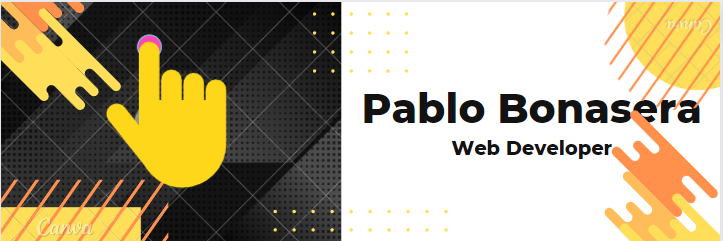
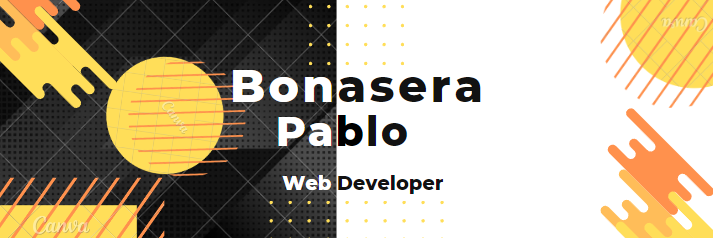
Improve

diff --git a/README.md b/README.md
@@ -1,12 +1,16 @@
-<img src="./img/banner.png" width="100%" alt="My Photo"> 
-<br>
+  <br />
+    <hr style="margin: 2rem 0;" />
+<img src="./img/banner2.png" width="100%" alt="My Photo">
+  <br />
+    <hr style="margin: 2rem 0;" />
 Hello! I'm Pablo Bonasera, a Full Stack Developer with a strong passion for learning and attention to detail. I'm anentrepreneur at heart, always seeking to generate improvements based on the circumstances. I would love to be part of yourteam!
 
 👯 I’m currently learning ...
 I have been working as a Mentor at Microverse, where I code daily with developers from around the world. This experience has helped me develop strong skills in communication and teamwork. In June 2021, I began my coding journey by taking courses and have since made significant progress through dedication, overcoming challenges, and continually striving for self-improvement. After completing my Full Stack certification at Academlo Bootcamp, I start in Microverse.
 
+<hr style="margin: 2rem 0;" />
 <div style="display: flex; align-items: flex-end;">
-  <h2 style="flex-grow: 1; margin: 2rem 0; color: #0366d6;">  🚀 **Technologies I Work With** </h2>
+  <h2 style="flex-grow: 1;   color: #0366d6;">  🚀 **Technologies I Work With** </h2>
 </div>
 
 - HTML/CSS
@@ -17,23 +21,29 @@ I have been working as a Mentor at Microverse, where I code daily with developer
 - MongoDB
 - Git
 - My Soft Skills
-
+<br />
+<hr />
 <div style="display: flex; align-items: flex-end;">
   <h2 style="flex-grow: 1; margin: 2rem 0; color: #0366d6;">  ⚡ **Detail-oriented** </h2>
 </div>
-
 - Strong problem-solving skills
 - Excellent communication
 - Team player
 - Adaptable and quick learner
 - Unique Selling Proposition (USP)
 - As a Full Stack Developer, I bring a unique blend of technical skills and professional experience. With a background as a legal assistant, I have developed a strong work ethic, perseverance, and an analytical mindset. These skills, combined with my passion for continuous learning, enable me to tackle complex coding challenges effectively and efficiently.
-
+<br />
+<hr />
 <div style="display: flex; align-items: flex-end;">
   <h2 style="flex-grow: 1; margin: 2rem 0; color: #0366d6;">  💻 **Let's Connect!** </h2>
 </div>
 I'm excited to collaborate on projects that make a positive impact on the environment and society. If you're looking for a dedicated and adaptable developer to join your team, I would be thrilled to be considered. Let's connect and create a better, more sustainable future together!
+  <br />
+    <hr style="margin: 2rem 0;" />
 
 [![Top Langs](https://github-readme-stats.vercel.app/api/top-langs/?username=PabloBona&layout=donut-vertical)](https://github.com/PabloBona/github-readme-stats)
+<br />
+
+<hr style="margin: 2rem 0;" />
 
 Feel free to reach out to me via email at pablobonasera@gmail.com or connect with me on LinkedIn at [@PabloBona](https://www.linkedin.com/in/pablo-bonasera-142327257/)
